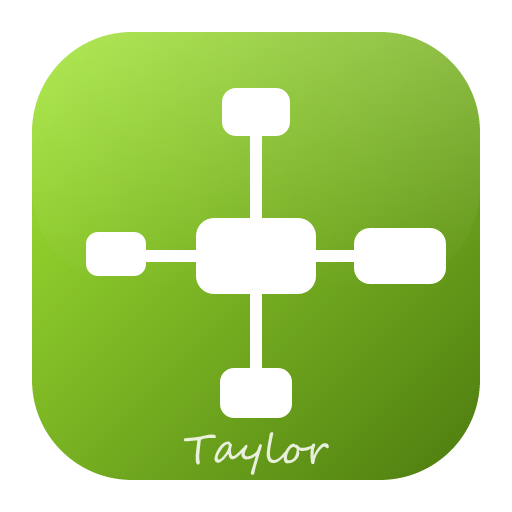
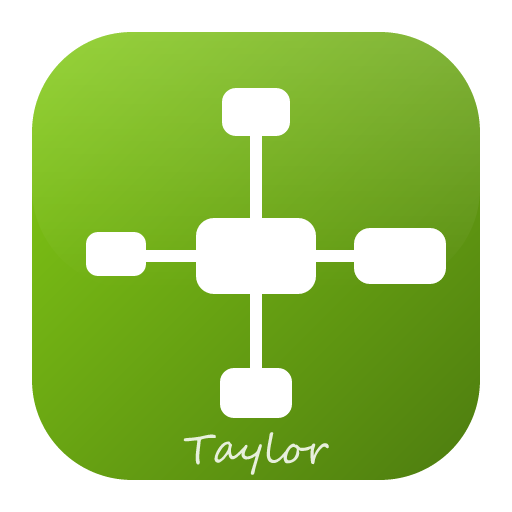
icone: stop claro #84cc16 e mestre small em arvore de 3 ramos (QA da Persephone)
O hub de quatro lados lido a 16 px virava um '+': o mestre small perde o ramo de cima (raiz, tronco e tres ramos a direita) e passa a ler como mapa. No mestre o que muda e so o stop claro - branco sobre #a3e635 dava ~1,5:1 e o ramo superior derretia no quadrante claro.

Changed region(s): [[0.0625, 0.0625, 0.2188, 0.375], [0.0625, 0.4062, 0.0938, 0.4688]]

diff --git a/assets/app-icon/README.md b/assets/app-icon/README.md
@@ -1,13 +1,13 @@
 # App icon
 
-The Local Mind icon: a central card with four branches around it, on the suite's tile.
+The Local Mind icon: a central card with branches around it, on the suite's tile.
 
 ## Files
 
 | File | What it is |
 |---|---|
 | `localmind.svg` | the master: the full-bleed 512 px tile (corner radius 100) Windows and Linux use as is |
-| `localmind-small.svg` | the same art with thicker links and larger cards; used for 16, 20, 24 and 32 px only |
+| `localmind-small.svg` | a three-branch **tree** (not the hub shrunk) for 16, 20, 24 and 32 px only |
 | `localmind-1024.png` | the master at 1024 px, for stores, README and the issue tracker |
 | `hicolor/<size>x<size>/apps/com.localmind.app.png` | the freedesktop icon theme tree (16 to 512 px) and the runtime window icon (256 px) |
 | `hicolor/scalable/apps/com.localmind.app.svg` | the scalable theme entry (a copy of the master) |
@@ -21,20 +21,24 @@ so building and packaging never need `resvg`.
 The family's frame, unchanged: a full-bleed tile with corner radius 100, a diagonal gradient, a
 white glyph at ~70% of the tile and the "Taylor" signature at the bottom. What is this app's own:
 
-- **Hue: lime** (`#a3e635`  `#4d7c0f`), the one band of the colour wheel the suite did not use yet.
-  Measured on the siblings' tiles: PDF red ~10°, Slides orange ~21°, Paint amber ~43°, Player
+- **Hue: lime** (`#84cc16` -> `#4d7c0f`), the one band of the colour wheel the suite did not use
+  yet. Measured on the siblings' tiles: PDF red ~10°, Slides orange ~21°, Paint amber ~43°, Player
   crimson ~343°, Photo fuchsia ~289°, Keys and Obsidian indigo ~242-245°, Office and Image blue
   ~219°, Utils green ~158°, Sheets emerald ~160°, Vector teal ~175°. The empty band is 50-150°;
   the light stop sits at ~82°, in the middle of it.
+- **The light stop is `#84cc16`, not `#a3e635`.** White-on-lime has to survive under the glyph:
+  `#a3e635` gives ~1.5:1 against white (the upper branch melted into the bright quadrant of the
+  gradient), `#84cc16` gives ~2.0:1 - the same ceiling the family's paint icon has.
 - **Glyph: the map itself.** A central card with four smaller cards around it, joined by thin
   links - the hub the window draws. It is not a curve with nodes (Local Vector's glyph) and not a
   line chart (Local Slides'). The links are a third of a satellite's width on purpose: at bar width
   approaching the card's, the four arms fuse into one fat cross and the icon reads as a crosshair.
   The branches have different sizes because a map's branches are not equal - and because equal ones
   read as a plus.
-- **A second master for the small sizes.** At 16 px the master's 12 px link is 0.4 px, so the
-  branches stop reading; `localmind-small.svg` makes the links ~50% thicker and the cards ~20%
-  larger. 40 px and up use the master.
+- **A different silhouette for the small sizes.** At 16 px the hub reads as a plus/crosshair: the
+  upper branch plus the two side arms make a symmetric cross, and the eye files it as "add". The
+  small master drops the upper branch - one card, a trunk and three branches to the right, a tree
+  that survives 16-32 px as "a map". The master is untouched for 40 px and up.
 
 ## Regenerating
 

diff --git a/assets/ATTRIBUTION.md b/assets/ATTRIBUTION.md
@@ -13,5 +13,5 @@ covers a whole directory), or if a licence file referenced in the Licence column
 | `epaint_default_fonts::UBUNTU_LIGHT` (dependency font input) | Ubuntu Light (the proportional default) | Canonical Ltd.; designed by Dalton Maag Ltd | [egui 6d518fc](https://github.com/storytold/egui/tree/6d518fc799681571963842f95b55a6b68431b15a/crates/epaint_default_fonts/fonts) | Ubuntu Font Licence 1.0, not the SIL Open Font License (Copyright 2011 Canonical Ltd.; full upstream text in `NOTICE`) | 2026-11-15 | unmodified egui default font embedded in the binary and registered by the production default font definitions (egui's `default_fonts`); no font file copied into this repository |
 | `epaint_default_fonts::NOTO_EMOJI_REGULAR` (dependency font input) | Noto Emoji Regular | Google Inc.; designed by the Monotype Design Team | [egui 6d518fc](https://github.com/storytold/egui/tree/6d518fc799681571963842f95b55a6b68431b15a/crates/epaint_default_fonts/fonts) | SIL Open Font License 1.1 (Copyright 2013 Google Inc. All Rights Reserved.; full upstream text in `NOTICE`) | 2026-11-15 | unmodified egui default font embedded in the binary and registered by the production default font definitions (egui's `default_fonts` and `monochrome_emoji_fonts`); no font file copied into this repository |
 | `assets/craft-fonts/` | craft-fonts, the suite's vendored font set (BIZ UDPGothic, BIZ UDMincho, Shippori Mincho, Noto Sans CJK SC, Noto Sans Arabic/Thai/Georgian/Symbols/Hebrew/Devanagari, NanumGothic) and its own crates | per craft-fonts' attribution | [storytold/craft-fonts](https://github.com/storytold/craft-fonts) at b076417b5880bd4154bd22f00695b1d28c6bea83, vendored as a build input (`CRAFT_FONTS_DIR`) | SIL Open Font License 1.1, each family's own text (`assets/craft-fonts/ATTRIBUTION.md`) | 2026-11-15 | unmodified upstream tree; never commit font files outside this directory |
-| `assets/app-icon/` (`localmind.svg`, `localmind-small.svg` and the PNG/ICO/SVG files derived from them) | Local Mind icon: a central card with four branches on the suite's tile, lime | Local Mind contributors | original work for this app (SVGs in this repository; see `assets/app-icon/README.md`) | MIT OR Apache-2.0 | 2026-11-15 | drawn as SVG; rendered to PNG/ICO by `packaging/icons.sh`. The small-size master thickens the links for 16-32 px. |
+| `assets/app-icon/` (`localmind.svg`, `localmind-small.svg` and the PNG/ICO/SVG files derived from them) | Local Mind icon: a central card with four branches (a three-branch tree below 40 px) on the suite's tile, lime | Local Mind contributors | original work for this app (SVGs in this repository; see `assets/app-icon/README.md`) | MIT OR Apache-2.0 | 2026-11-15 | drawn as SVG; rendered to PNG/ICO by `packaging/icons.sh`. The small-size master is a different silhouette (tree), not the hub shrunk. |
 | `i18n/locales/` | Interface catalogs (pt-br, es, ja) | Local Mind contributors | original translations of this repository's English source text (clean room) | MIT OR Apache-2.0 | 2026-11-15 | none |
